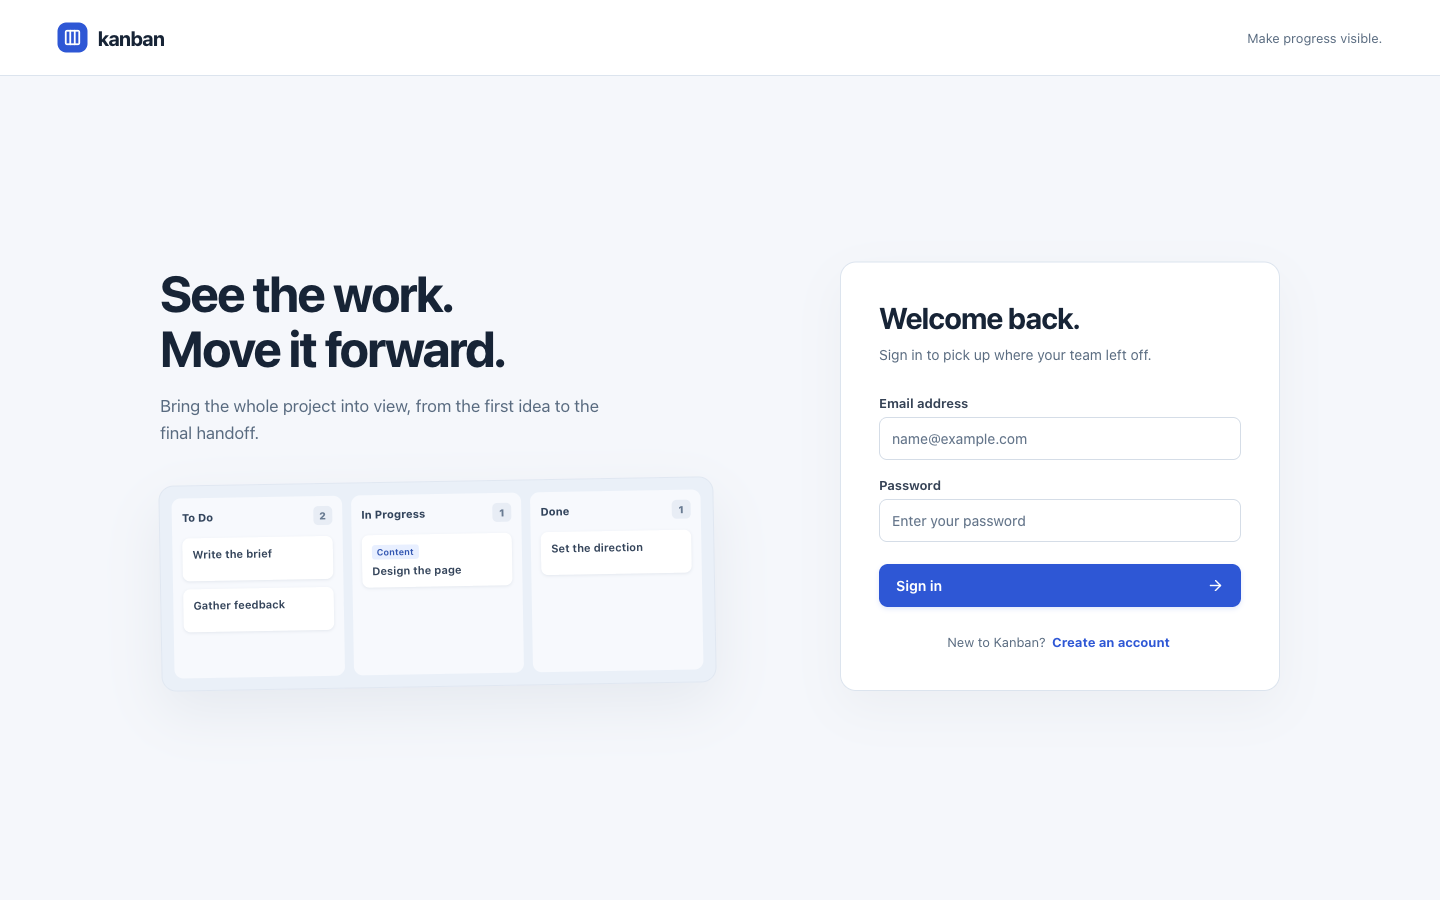
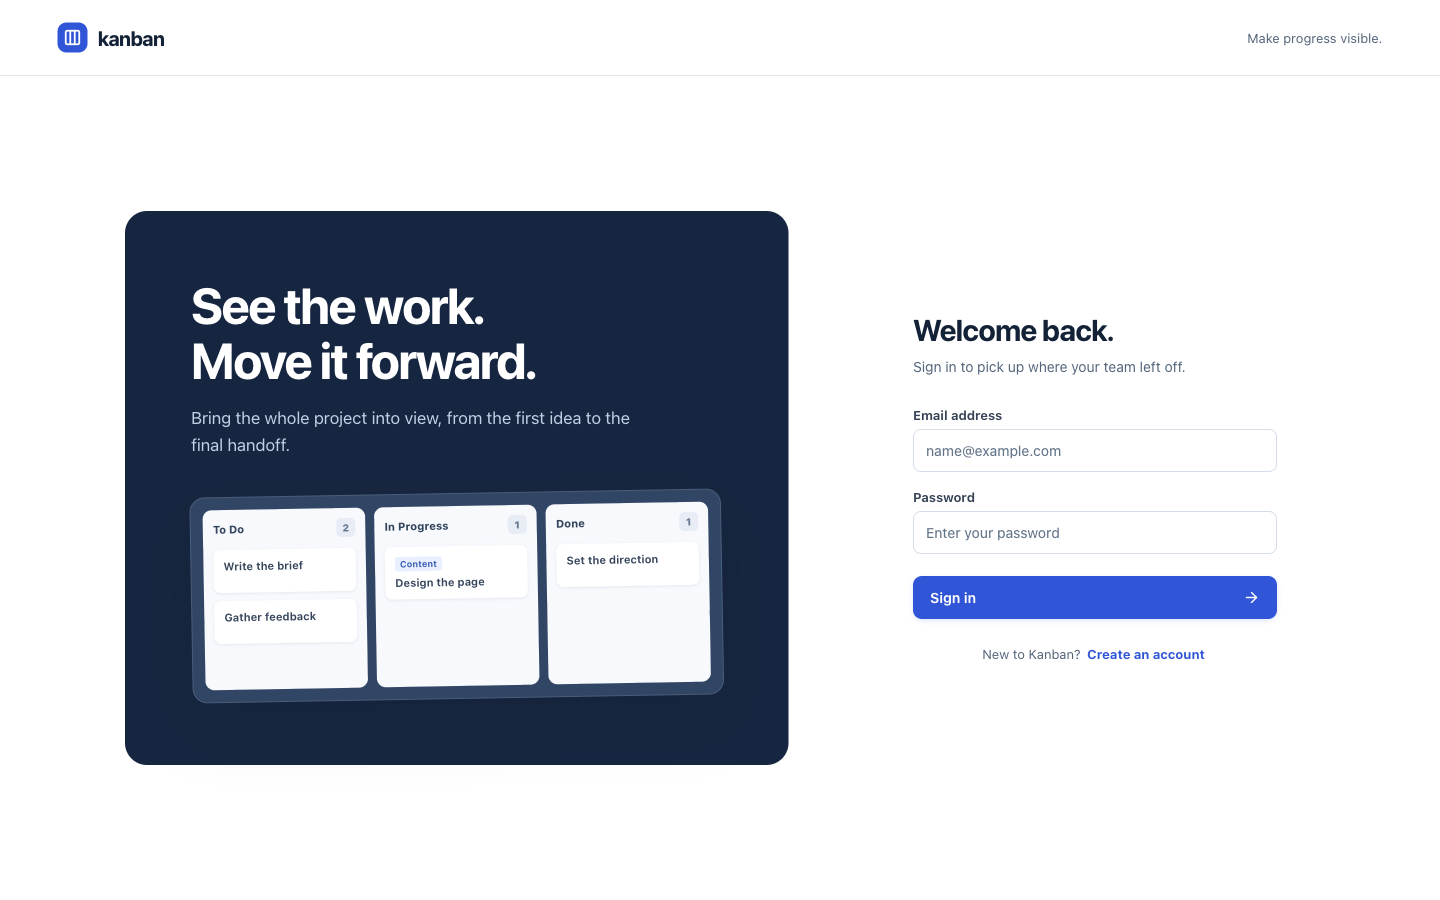
Refine Kanban workspace visual hierarchy

Changed region(s): [[0.0625, 0.2178, 0.5625, 0.8711], [0.5938, 0.3422, 0.9062, 0.7467]]

diff --git a/web/src/styles.css b/web/src/styles.css
@@ -1,19 +1,19 @@
 :root {
   font-family: Inter, ui-sans-serif, -apple-system, BlinkMacSystemFont, "Segoe UI", sans-serif;
-  color: #172436;
-  background: #f5f7fb;
+  color: #142238;
+  background: #f8f9fc;
   font-synthesis: none;
   text-rendering: optimizeLegibility;
   -webkit-font-smoothing: antialiased;
   --surface: #fff;
-  --canvas: #f5f7fb;
-  --column: #edf1f6;
-  --ink: #172436;
-  --muted: #596b80;
-  --line: #dce4ee;
-  --blue: #2e57d5;
-  --blue-dark: #2447b6;
-  --blue-wash: #eaf0ff;
+  --canvas: #f8f9fc;
+  --column: #f1f4f8;
+  --ink: #142238;
+  --muted: #52647a;
+  --line: #e0e6ee;
+  --blue: #3155d7;
+  --blue-dark: #2545ba;
+  --blue-wash: #e8edff;
   --danger: #b73344;
 }
 * { box-sizing: border-box; }
@@ -55,21 +55,21 @@ button, input, textarea, select { -webkit-tap-highlight-color: transparent; }
 @keyframes loading { to { background-position: -200% 0; } }
 
 /* Authentication */
-.auth-screen { min-height: 100vh; background: var(--canvas); }
+.auth-screen { min-height: 100vh; background: #fff; }
 .auth-top { height: 76px; display: flex; align-items: center; justify-content: space-between; padding: 0 clamp(24px, 4vw, 68px); border-bottom: 1px solid var(--line); background: white; }
 .auth-top > span:last-child { font-size: 13px; color: var(--muted); }
-.auth-main { min-height: calc(100vh - 76px); display: grid; place-items: center; padding: 48px 32px 72px; }
-.auth-layout { display: grid; grid-template-columns: minmax(0, 1.1fr) minmax(360px, 440px); align-items: center; gap: clamp(48px, 7vw, 116px); width: min(1120px, 100%); }
-.auth-story { min-width: 0; padding: 18px 0; }
-.auth-story .auth-story-title { max-width: 520px; margin: 0 0 16px; color: var(--ink); font-size: clamp(36px, 3.5vw, 52px); line-height: 1.1; letter-spacing: -.035em; font-weight: 730; }
-.auth-story p { max-width: 440px; margin: 0 0 35px; color: var(--muted); font-size: 17px; line-height: 1.6; }
-.preview-board { display: grid; grid-template-columns: repeat(3, minmax(0, 1fr)); gap: 9px; max-width: 555px; padding: 12px; border: 1px solid #e0e7f1; border-radius: 15px; background: #eaf0f8; box-shadow: 0 22px 55px #18345712; transform: rotate(-1deg); }
+.auth-main { min-height: calc(100vh - 76px); display: grid; place-items: center; padding: 40px 32px; }
+.auth-layout { display: grid; grid-template-columns: minmax(0, 1.1fr) minmax(360px, 440px); align-items: center; gap: clamp(48px, 6vw, 100px); width: min(1190px, 100%); }
+.auth-story { min-width: 0; padding: clamp(34px, 5vw, 66px); border-radius: 22px; background: #172640; }
+.auth-story .auth-story-title { max-width: 520px; margin: 0 0 16px; color: #fff; font-size: clamp(36px, 3.5vw, 52px); line-height: 1.1; letter-spacing: -.035em; font-weight: 730; }
+.auth-story p { max-width: 440px; margin: 0 0 35px; color: #c2d0e5; font-size: 17px; line-height: 1.6; }
+.preview-board { display: grid; grid-template-columns: repeat(3, minmax(0, 1fr)); gap: 9px; max-width: 555px; padding: 12px; border: 1px solid #495d7b; border-radius: 15px; background: #314564; box-shadow: 0 22px 55px #0d152833; transform: rotate(-1deg); }
 .preview-column { display: flex; flex-direction: column; gap: 8px; min-height: 180px; padding: 10px; border-radius: 9px; background: #f7f9fd; }
 .preview-column > span { display: flex; align-items: center; justify-content: space-between; gap: 5px; margin-bottom: 3px; color: #32445c; font-size: 11px; font-weight: 750; }
 .preview-column b { display: grid; place-items: center; width: 19px; height: 19px; border-radius: 5px; background: #e8edf5; color: #697b92; font-size: 10px; }
 .preview-column i { display: block; min-height: 43px; padding: 10px; border-radius: 7px; background: white; box-shadow: 0 1px 3px #18345717; color: #34445a; font-size: 11px; font-style: normal; font-weight: 650; }
 .preview-column em { display: block; width: fit-content; margin-bottom: 5px; padding: 2px 5px; border-radius: 3px; background: #e8efff; color: #3155b1; font-size: 9px; font-style: normal; }
-.auth-panel { width: 100%; background: white; border: 1px solid var(--line); border-radius: 16px; padding: 38px; box-shadow: 0 18px 48px #1d2b3d0b; }
+.auth-panel { width: 100%; background: white; padding: 38px; }
 .auth-intro { margin-bottom: 30px; }
 .auth-intro h1 { margin: 0 0 9px; font-size: 30px; line-height: 1.15; letter-spacing: -.03em; }
 .auth-intro p { margin: 0; color: var(--muted); font-size: 14px; line-height: 1.5; }
@@ -88,28 +88,32 @@ button, input, textarea, select { -webkit-tap-highlight-color: transparent; }
 
 /* Application shell */
 .app-shell { display: grid; grid-template-columns: 248px minmax(0, 1fr); min-height: 100vh; }
-.sidebar { position: sticky; top: 0; display: flex; flex-direction: column; height: 100vh; background: #fff; border-right: 1px solid var(--line); }
-.sidebar-brand { display: flex; align-items: center; justify-content: space-between; height: 74px; padding: 0 20px; border-bottom: 1px solid var(--line); }
+.sidebar { position: sticky; top: 0; display: flex; flex-direction: column; height: 100vh; background: #172640; color: #eaf0fb; border-right: 1px solid #263a57; }
+.sidebar-brand { display: flex; align-items: center; justify-content: space-between; height: 74px; padding: 0 20px; border-bottom: 1px solid #30415c; }
+.sidebar .wordmark { color: #fff; }
+.sidebar .wordmark-symbol { background: #5978f1; }
 .sidebar-section { flex: 1; min-height: 0; padding: 30px 12px 16px; overflow-y: auto; }
-.sidebar-section-head { display: flex; align-items: center; justify-content: space-between; gap: 8px; padding: 0 9px 12px; color: #53667e; font-size: 13px; font-weight: 710; }
-.sidebar-section-head .icon-button { width: 32px; height: 32px; color: var(--blue); }
+.sidebar-section-head { display: flex; align-items: center; justify-content: space-between; gap: 8px; padding: 0 9px 12px; color: #a9bbd2; font-size: 12px; font-weight: 720; letter-spacing: .04em; text-transform: uppercase; }
+.sidebar-section-head .icon-button { width: 32px; height: 32px; color: #b8caff; }
+.sidebar .icon-button:hover:not(:disabled) { background: #30415c; color: #fff; }
 .board-nav { display: grid; gap: 3px; }
-.nav-board { display: flex; align-items: center; gap: 11px; width: 100%; min-height: 43px; padding: 11px 12px; border: 0; border-radius: 8px; background: transparent; color: #4f6075; text-align: left; text-decoration: none; font-size: 14px; font-weight: 560; }
-.nav-board:hover { background: #f3f5f8; color: var(--ink); }
-.nav-board.active { background: var(--blue-wash); color: #244ab6; font-weight: 680; }
+.nav-board { display: flex; align-items: center; gap: 11px; width: 100%; min-height: 43px; padding: 11px 12px; border: 0; border-radius: 8px; background: transparent; color: #c1cfe1; text-align: left; text-decoration: none; font-size: 14px; font-weight: 560; }
+.nav-board:hover { background: #263a57; color: #fff; }
+.nav-board.active { background: #354d80; color: #fff; font-weight: 680; }
 .nav-board span { min-width: 0; overflow: hidden; text-overflow: ellipsis; white-space: nowrap; }
-.sidebar-empty { margin: 11px 12px; color: var(--muted); font-size: 13px; line-height: 1.5; }
-.sidebar-footer { display: flex; align-items: center; gap: 9px; min-width: 0; height: 68px; padding: 10px 14px; border-top: 1px solid var(--line); }
+.sidebar-empty { margin: 11px 12px; color: #afbed1; font-size: 13px; line-height: 1.5; }
+.sidebar-footer { display: flex; align-items: center; gap: 9px; min-width: 0; height: 68px; padding: 10px 14px; border-top: 1px solid #30415c; }
+.sidebar-footer .icon-button { color: #c1cfe1; }
 .avatar, .mini-avatar { display: inline-grid; place-items: center; flex: none; border-radius: 50%; background: #e7edfb; color: #315bdc; font-weight: 750; }
 .avatar { width: 34px; height: 34px; font-size: 13px; }
 .mini-avatar { width: 28px; height: 28px; font-size: 11px; }
-.account-email { min-width: 0; flex: 1; overflow: hidden; text-overflow: ellipsis; white-space: nowrap; color: #3a4858; font-size: 13px; }
+.account-email { min-width: 0; flex: 1; overflow: hidden; text-overflow: ellipsis; white-space: nowrap; color: #c1cfe1; font-size: 13px; }
 .mobile-header, .mobile-close, .sidebar-scrim { display: none; }
-.workspace { min-width: 0; padding: 36px clamp(24px, 3vw, 52px) 58px; }
+.workspace { min-width: 0; padding: 42px clamp(24px, 3vw, 52px) 58px; }
 .workspace-header { display: flex; align-items: flex-start; justify-content: space-between; gap: 24px; margin-bottom: 26px; }
 .header-copy { min-width: 0; }
 .board-heading { display: flex; align-items: center; gap: 17px; min-width: 0; }
-.board-emblem { display: grid; place-items: center; width: 52px; height: 52px; flex: none; border: 1px solid #cad8fb; border-radius: 13px; background: #eaf0ff; color: var(--blue); }
+.board-emblem { display: grid; place-items: center; width: 52px; height: 52px; flex: none; border-radius: 13px; background: #e8edff; color: var(--blue); }
 .workspace-header h1 { margin: 0; overflow-wrap: anywhere; font-size: 30px; line-height: 1.15; letter-spacing: -.03em; font-weight: 740; }
 .board-meta { display: flex; align-items: center; flex-wrap: wrap; gap: 7px; margin: 8px 0 0; color: var(--muted); font-size: 13px; }
 .board-meta > span { color: #a9b3bf; }
@@ -143,14 +147,19 @@ button, input, textarea, select { -webkit-tap-highlight-color: transparent; }
 .board-scroll:focus { outline: none; }
 .board-scroll:focus-visible { outline: 3px solid #86a5ff; outline-offset: 2px; }
 .board-columns { display: flex; gap: 15px; align-items: flex-start; min-height: 330px; width: max-content; }
-.board-column { display: flex; flex-direction: column; width: clamp(260px, calc((100vw - 248px - 6vw - 45px) / 4), 310px); min-height: max(330px, calc(100vh - 330px)); padding: 14px; border: 1px solid #e0e6ef; border-radius: 12px; background: var(--column); transition: border-color .15s ease, background .15s ease; }
+.board-column { --stage-color: #8494aa; display: flex; flex-direction: column; width: clamp(260px, calc((100vw - 248px - 6vw - 45px) / 4), 310px); min-height: 430px; padding: 14px; border: 1px solid #e5eaf1; border-radius: 12px; background: var(--column); transition: border-color .15s ease, background .15s ease; }
+.board-column:nth-child(4n + 1) { --stage-color: #7891cb; }
+.board-column:nth-child(4n + 2) { --stage-color: #4d75d9; }
+.board-column:nth-child(4n + 3) { --stage-color: #ab84d6; }
+.board-column:nth-child(4n + 4) { --stage-color: #409f78; }
 .board-column.drop-target { border-color: #7896e7; background: #e9eeff; }
 .column-top { display: flex; align-items: center; justify-content: space-between; gap: 6px; min-height: 35px; margin-bottom: 13px; padding: 0 2px 0 3px; }
-.column-title { display: flex; align-items: center; gap: 7px; min-width: 0; }
+.column-title { display: flex; align-items: center; gap: 8px; min-width: 0; }
+.stage-dot { width: 8px; height: 8px; flex: none; border-radius: 50%; background: var(--stage-color); }
 .column-title h2 { margin: 0; overflow: hidden; text-overflow: ellipsis; white-space: nowrap; font-size: 15px; font-weight: 730; }
 .count { display: inline-grid; place-items: center; min-width: 24px; height: 23px; padding: 0 6px; border-radius: 6px; background: #dfe6ef; color: #50647b; font-size: 12px; font-weight: 680; font-variant-numeric: tabular-nums; }
 .column-tools { display: flex; align-items: center; flex: none; }
-.column-tools .icon-button { width: 28px; height: 28px; }
+.column-tools .icon-button { width: 32px; height: 32px; }
 .menu-wrap { position: relative; }
 .mini-menu { position: absolute; z-index: 5; top: 29px; right: 0; width: 148px; padding: 4px; border: 1px solid #dfe5ed; border-radius: 8px; background: white; box-shadow: 0 12px 30px #20304924; }
 .mini-menu button { display: block; width: 100%; padding: 8px 9px; border: 0; border-radius: 5px; background: transparent; color: #37485b; text-align: left; font-size: 12px; }
@@ -158,7 +167,7 @@ button, input, textarea, select { -webkit-tap-highlight-color: transparent; }
 .mini-menu .danger-text { color: var(--danger); }
 .column-cards { display: grid; align-content: start; gap: 9px; min-height: 61px; }
 .column-empty { margin: 8px 8px 7px; color: #65768b; font-size: 13px; line-height: 1.5; }
-.task-card { display: flex; flex-direction: column; align-items: flex-start; gap: 9px; width: 100%; padding: 15px; border: 1px solid #dfe6ee; border-radius: 9px; background: white; color: var(--ink); box-shadow: 0 2px 5px #1e2a3a0b; text-align: left; cursor: grab; transition: border-color .15s ease, box-shadow .15s ease, transform .15s ease; }
+.task-card { display: flex; flex-direction: column; align-items: flex-start; gap: 10px; width: 100%; padding: 17px; border: 1px solid #e3e7ee; border-radius: 10px; background: white; color: var(--ink); box-shadow: 0 3px 10px #1e2a3a0b; text-align: left; cursor: grab; transition: border-color .15s ease, box-shadow .15s ease, transform .15s ease; }
 .task-card:hover { border-color: #aabce5; box-shadow: 0 5px 16px #24304816; transform: translateY(-1px); }
 .task-card:active { cursor: grabbing; }
 .card-labels { display: flex; flex-wrap: wrap; gap: 5px; }
@@ -168,11 +177,11 @@ button, input, textarea, select { -webkit-tap-highlight-color: transparent; }
 .label-chip.green { background: #def5eb; color: #287357; }
 .label-chip.purple { background: #f0e9ff; color: #6d45a0; }
 .label-chip.amber { background: #fff1d8; color: #936019; }
-.card-title { width: 100%; overflow-wrap: anywhere; font-size: 15px; line-height: 1.4; font-weight: 680; }
+.card-title { width: 100%; overflow-wrap: anywhere; font-size: 15px; line-height: 1.4; font-weight: 700; }
 .card-description { display: -webkit-box; width: 100%; overflow: hidden; color: #586b80; font-size: 13px; line-height: 1.45; overflow-wrap: anywhere; -webkit-box-orient: vertical; -webkit-line-clamp: 2; }
 .card-due { display: inline-flex; align-items: center; gap: 6px; margin-top: 3px; color: #576a80; font-size: 12px; }
 .card-due.overdue { color: #b33a4a; font-weight: 680; }
-.add-card { display: flex; align-items: center; gap: 8px; width: 100%; min-height: 40px; margin-top: 9px; padding: 9px 8px; border: 0; border-radius: 8px; background: transparent; color: #526982; text-align: left; font-size: 13px; font-weight: 650; }
+.add-card { display: flex; align-items: center; gap: 8px; width: 100%; min-height: 44px; margin-top: 9px; padding: 9px 8px; border: 0; border-radius: 8px; background: transparent; color: #526982; text-align: left; font-size: 13px; font-weight: 650; }
 .add-card:hover { background: #e5e9ef; color: #394f71; }
 .add-column { display: flex; align-items: center; gap: 9px; width: 195px; min-height: 41px; padding: 10px 12px; border: 1px dashed #c8d2de; border-radius: 9px; background: #f7f9fc; color: #5f6f81; text-align: left; font-size: 13px; font-weight: 600; }
 .add-column:hover { background: #ecf1fb; border-color: #9eafe0; color: #315bdc; }
@@ -227,6 +236,8 @@ button, input, textarea, select { -webkit-tap-highlight-color: transparent; }
 @media (max-width: 980px) {
   .auth-layout { display: block; max-width: 440px; }
   .auth-story { display: none; }
+  .auth-screen { background: var(--canvas); }
+  .auth-panel { border: 1px solid var(--line); border-radius: 16px; box-shadow: 0 18px 48px #1d2b3d0b; }
 }
 @media (max-width: 800px) {
   .app-shell { display: block; }
@@ -246,6 +257,9 @@ button, input, textarea, select { -webkit-tap-highlight-color: transparent; }
   .search-field { width: 100%; max-width: none; }
   .board-tools p { max-width: 70%; }
   .board-column { width: min(80vw, 310px); min-height: 320px; }
+  .column-tools .icon-button { width: 40px; height: 44px; }
+  .board-navigation .icon-button { width: 44px; height: 44px; }
+  .sidebar-section-head .icon-button { width: 44px; height: 44px; }
 }
 @media (max-width: 430px) {
   .auth-top { height: 64px; padding: 0 18px; }

diff --git a/web/src/components.jsx b/web/src/components.jsx
@@ -89,7 +89,7 @@ export function BoardColumn({ column, cards, labels, owner, onAdd, onEdit, onMov
     if (id) onMove(id, column.id, index);
   };
   return <section className={`board-column ${dragOver ? 'drop-target' : ''}`} aria-labelledby={`column-${column.id}`} onDragOver={(event) => { event.preventDefault(); setDragOver(true); }} onDragLeave={(event) => { if (!event.currentTarget.contains(event.relatedTarget)) setDragOver(false); }} onDrop={(event) => drop(event, column.cards.length)}>
-    <div className="column-top"><div className="column-title"><h2 id={`column-${column.id}`}>{column.name}</h2><span className="count">{column.cards.length}</span></div>
+    <div className="column-top"><div className="column-title"><span className="stage-dot" aria-hidden="true" /><h2 id={`column-${column.id}`}>{column.name}</h2><span className="count">{column.cards.length}</span></div>
       {owner && <div className="column-tools"><IconButton icon={ChevronLeft} label={`Move ${column.name} left`} onClick={() => onReorder(column.id, -1)} /><IconButton icon={ChevronRight} label={`Move ${column.name} right`} onClick={() => onReorder(column.id, 1)} /><div className="menu-wrap"><IconButton icon={Ellipsis} label={`${column.name} options`} aria-expanded={menu} onClick={() => setMenu(!menu)} />{menu && <div className="mini-menu"><button type="button" onClick={() => { setMenu(false); onRename(column); }}>Rename column</button><button type="button" className="danger-text" onClick={() => { setMenu(false); onDelete(column); }}>Delete column</button></div>}</div></div>}
     </div>
     <div className="column-cards">{column.cards.length === 0 && <p className="column-empty">Nothing here yet. Add a card to get started.</p>}{cards.map((card) => {

diff --git a/web/index.html b/web/index.html
@@ -3,7 +3,7 @@
   <head>
     <meta charset="UTF-8" />
     <meta name="viewport" content="width=device-width, initial-scale=1.0" />
-    <meta name="theme-color" content="#f7f8fa" />
+    <meta name="theme-color" content="#f8f9fc" />
     <link rel="icon" type="image/svg+xml" href="/favicon.svg" />
     <meta name="description" content="A focused, collaborative Kanban workspace." />
     <title>Kanban</title>
